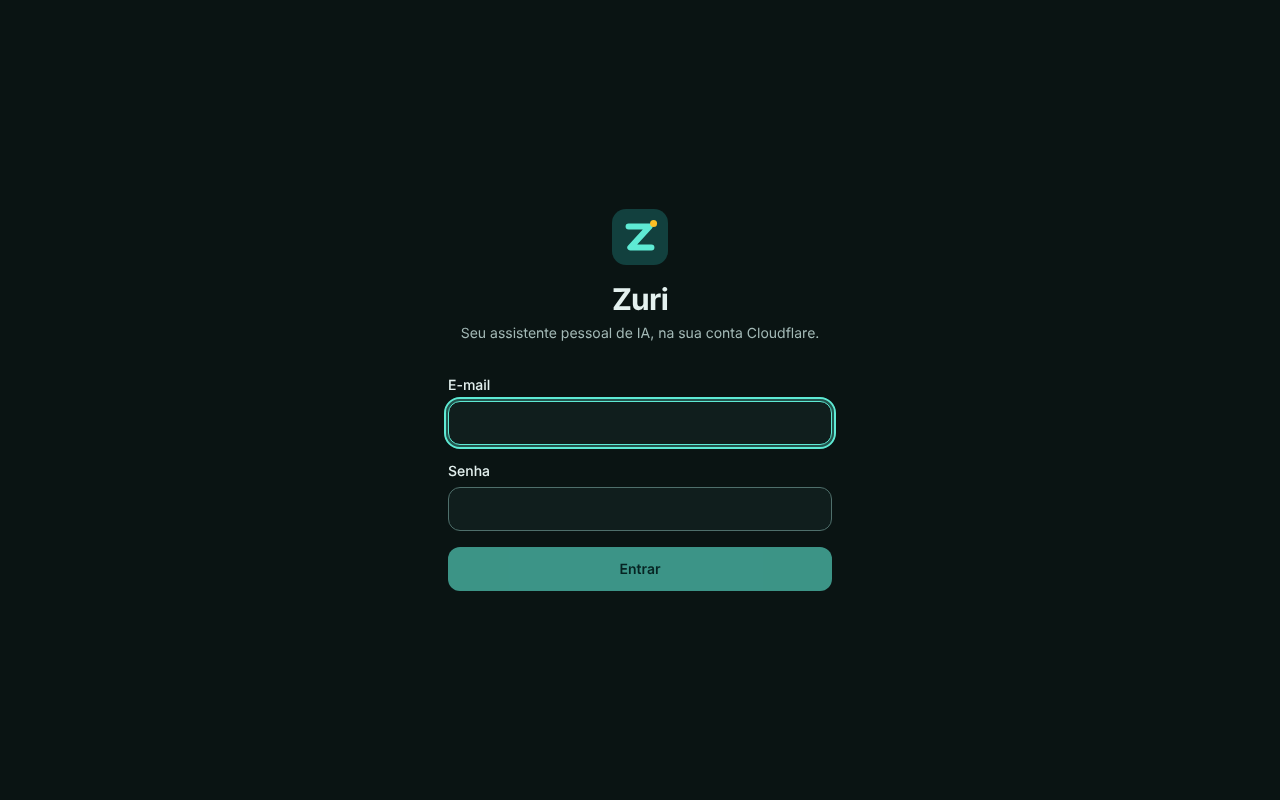
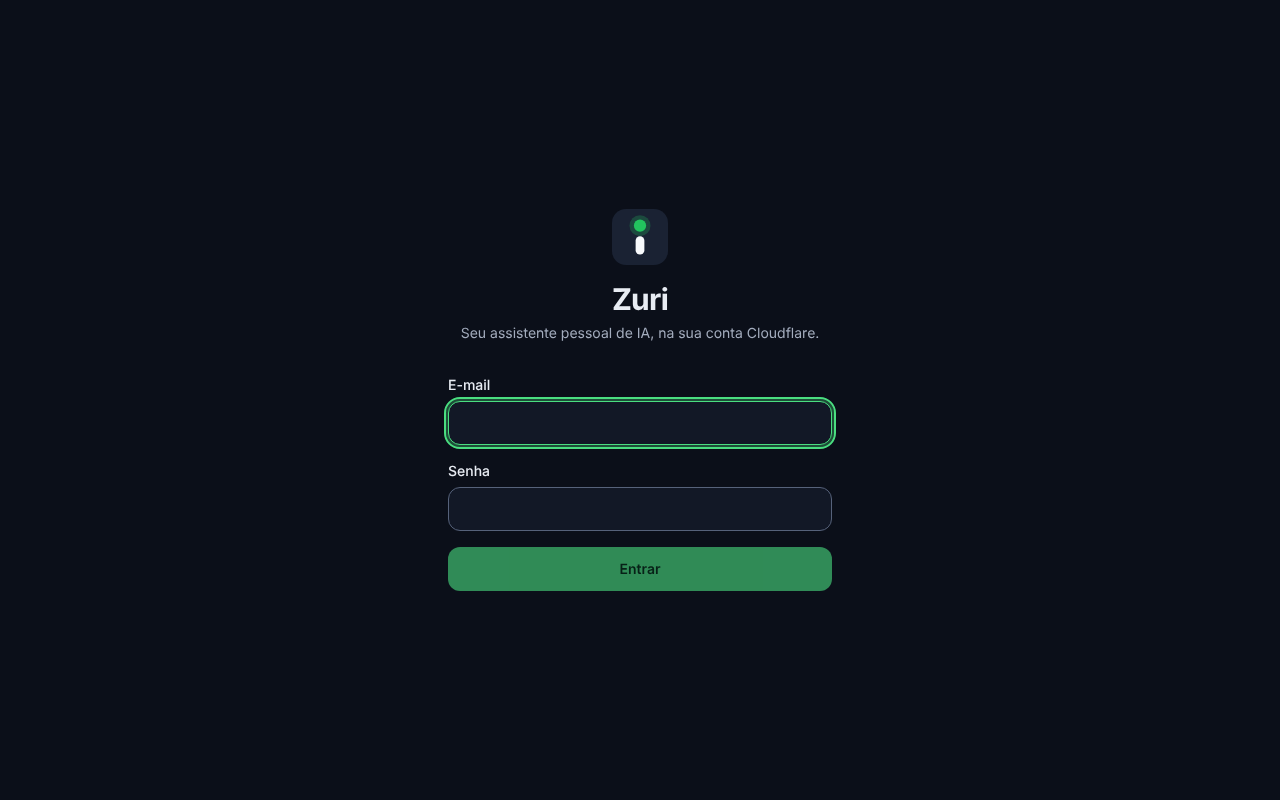
style: aplica a identidade visual "Sinal"
O logo vira um i cujo pingo é uma luz verde, que pulsa enquanto o Zuri
trabalha. Cores da interface, favicon, ícones, manifest e capturas trocados.
Escolha do Pablo registrada em decisoes.md.

Claude-Session: https://claude.ai/code/session_012XDDEh6Pz1nVR2LMDxcdBF

Changed region(s): [[0.3438, 0.6562, 0.6562, 0.75], [0.3438, 0.5, 0.6562, 0.5625], [0.4688, 0.25, 0.5312, 0.3438]]

diff --git a/apps/web/src/styles.css b/apps/web/src/styles.css
@@ -4,55 +4,57 @@
 @custom-variant dark (&:where(.dark, .dark *));
 
 /*
- * Zuri's palette ("Brisa"): calm teal with an amber spark. Every color the
- * interface uses comes from these tokens, so another identity is one block to
- * change. Text pairs keep WCAG AA contrast in both themes (4.5:1 or more).
+ * Zuri's palette ("Sinal"): ink neutrals with one green light, the dot of the
+ * logo's i. Green means "working" across the interface, so it stays the only
+ * accent. Every color the interface uses comes from these tokens. Text pairs
+ * keep WCAG AA contrast in both themes (4.5:1 or more).
  */
 @theme {
-  --color-bg: #f5f9f8;
+  --color-bg: #f6f7f9;
   --color-surface: #ffffff;
-  --color-raised: #eef4f3;
-  --color-fg: #0f1f1e;
-  --color-fg-muted: #4a5c5a;
-  --color-border: #d3dfdd;
-  --color-border-strong: #8fa5a2;
-  --color-accent: #0f766e;
-  --color-accent-hover: #115e59;
+  --color-raised: #eef0f4;
+  --color-fg: #0b0f19;
+  --color-fg-muted: #4b5563;
+  --color-border: #dde1e8;
+  --color-border-strong: #8b93a1;
+  --color-accent: #15803d;
+  --color-accent-hover: #166534;
   --color-accent-fg: #ffffff;
-  --color-accent-soft: #d5f5ef;
-  --color-accent-text: #0f665f;
+  --color-accent-soft: #dcfce7;
+  --color-accent-text: #166534;
   --color-danger: #b42318;
   --color-danger-soft: #fdecea;
   --color-success: #12703a;
   --color-success-soft: #e3f6ea;
   --color-warning: #8a4b00;
   --color-warning-soft: #fdf1dc;
-  --color-brand-tile: #0f3b3a;
-  --color-brand-mark: #5eead4;
-  --color-brand-spark: #fbbf24;
+  --color-brand-tile: #0b0f19;
+  --color-brand-mark: #f8fafc;
+  --color-brand-signal: #22c55e;
   --font-sans: system-ui, -apple-system, "Segoe UI", Roboto, "Helvetica Neue", Arial, sans-serif;
 }
 
 .dark {
-  --color-bg: #0a1413;
-  --color-surface: #101e1d;
-  --color-raised: #162826;
-  --color-fg: #e4f1ef;
-  --color-fg-muted: #a3b9b6;
-  --color-border: #24403d;
-  --color-border-strong: #4f6f6b;
-  --color-accent: #5eead4;
-  --color-accent-hover: #99f6e4;
-  --color-accent-fg: #042f2e;
-  --color-accent-soft: #123b37;
-  --color-accent-text: #7ff0dc;
+  --color-bg: #0b0f19;
+  --color-surface: #121826;
+  --color-raised: #1a2233;
+  --color-fg: #e8ecf3;
+  --color-fg-muted: #a3acbd;
+  --color-border: #263043;
+  --color-border-strong: #56627a;
+  --color-accent: #4ade80;
+  --color-accent-hover: #86efac;
+  --color-accent-fg: #052e16;
+  --color-accent-soft: #0f2e1c;
+  --color-accent-text: #6ee7a0;
   --color-danger: #ffb4ab;
   --color-danger-soft: #3b1715;
   --color-success: #86efac;
   --color-success-soft: #10301d;
   --color-warning: #fcd34d;
   --color-warning-soft: #33270a;
-  --color-brand-tile: #12403e;
+  /* A step lighter than the page, so the tile still shows on it. */
+  --color-brand-tile: #1a2233;
   color-scheme: dark;
 }
 

diff --git a/apps/web/src/components/Logo.tsx b/apps/web/src/components/Logo.tsx
@@ -1,15 +1,19 @@
 import { cn } from "./ui.tsx";
 
 /**
- * Zuri's mark ("Brisa"): a Z drawn in one stroke on a deep teal tile, with an
- * amber spark. The same drawing as public/favicon.svg and the app icons.
+ * Zuri's mark ("Sinal"): an i whose dot is a green light. The same drawing as
+ * public/favicon.svg and the app icons. With `working`, the light pulses: the
+ * mark doubles as the sign that Zuri is busy (motion-safe only).
  */
-export function Logo({ className }: { className?: string }) {
+export function Logo({ className, working = false }: { className?: string; working?: boolean }) {
   return (
     <svg viewBox="0 0 64 64" className={cn("h-8 w-8 shrink-0", className)} aria-hidden="true" focusable="false">
       <rect width="64" height="64" rx="16" className="fill-brand-tile" />
-      <path d="M19 20h24L21 44h24" fill="none" className="stroke-brand-mark" strokeWidth="7" strokeLinecap="round" strokeLinejoin="round" />
-      <circle cx="47.5" cy="16.5" r="4" className="fill-brand-spark" />
+      <g className={cn("fill-brand-signal", working && "motion-safe:animate-pulse")}>
+        <circle cx="32" cy="19" r="12" opacity="0.25" />
+        <circle cx="32" cy="19" r="7" />
+      </g>
+      <rect x="27" y="31" width="10" height="21" rx="5" className="fill-brand-mark" />
     </svg>
   );
 }

diff --git a/tests/e2e/states.spec.ts b/tests/e2e/states.spec.ts
@@ -85,12 +85,12 @@ test("the theme choice applies at once and stays after a reload", async ({ page 
   const theme = page.getByRole("group", { name: "Tema" });
   await theme.getByText("Escuro").click();
   await expect(page.locator("html")).toHaveClass(/dark/);
-  await expect(page.locator('meta[name="theme-color"]')).toHaveAttribute("content", "#0a1413");
+  await expect(page.locator('meta[name="theme-color"]')).toHaveAttribute("content", "#0b0f19");
   await page.reload();
   await expect(page.getByRole("heading", { level: 1, name: "Configurações" })).toBeVisible();
   await expect(page.locator("html")).toHaveClass(/dark/);
   await expect(theme.getByRole("radio", { name: "Escuro" })).toBeChecked();
   await theme.getByText("Claro").click();
   await expect(page.locator("html")).not.toHaveClass(/dark/);
-  await expect(page.locator('meta[name="theme-color"]')).toHaveAttribute("content", "#f5f9f8");
+  await expect(page.locator('meta[name="theme-color"]')).toHaveAttribute("content", "#f6f7f9");
 });

diff --git a/scripts/gerar-icones.ts b/scripts/gerar-icones.ts
@@ -13,8 +13,7 @@ const logo = readFileSync(join(PUBLIC, "favicon.svg"), "utf8");
 /** The logo inside a full-bleed tile, its mark within the maskable safe zone (the inner 80%). */
 const maskable = logo
   .replace('rx="16"', 'rx="0"')
-  .replace(/<path /, '<g transform="translate(32 32) scale(0.72) translate(-32 -32)"><path ')
-  .replace("</svg>", "</g></svg>");
+  .replace("<g>", '<g transform="translate(32 32) scale(0.72) translate(-32 -32)">');
 
 const ICONS: { file: string; size: number; svg: string }[] = [
   { file: "favicon-32.png", size: 32, svg: logo },

diff --git a/apps/web/src/lib/theme.ts b/apps/web/src/lib/theme.ts
@@ -29,7 +29,7 @@ export function applyTheme(pref: ThemePreference): void {
   const set = () => {
     const dark = resolve(pref) === "dark";
     document.documentElement.classList.toggle("dark", dark);
-    document.querySelector('meta[name="theme-color"]')?.setAttribute("content", dark ? "#0a1413" : "#f5f9f8");
+    document.querySelector('meta[name="theme-color"]')?.setAttribute("content", dark ? "#0b0f19" : "#f6f7f9");
   };
   set();
   if (media && listener) media.removeEventListener("change", listener);

diff --git a/apps/web/index.html b/apps/web/index.html
@@ -4,7 +4,7 @@
     <meta charset="utf-8" />
     <meta name="viewport" content="width=device-width, initial-scale=1, viewport-fit=cover" />
     <meta name="description" content="Zuri: seu assistente pessoal de IA, na sua conta Cloudflare." />
-    <meta name="theme-color" content="#f5f9f8" />
+    <meta name="theme-color" content="#f6f7f9" />
     <meta name="color-scheme" content="light dark" />
     <meta name="referrer" content="same-origin" />
     <title>Zuri</title>

diff --git a/apps/web/src/components/RequireSession.tsx b/apps/web/src/components/RequireSession.tsx
@@ -23,7 +23,7 @@ export function RequireSession({ children }: { children: ReactNode }) {
   if (loading) {
     return (
       <FullScreen>
-        <Logo className="h-12 w-12" />
+        <Logo className="h-12 w-12" working />
         <Spinner label={t("web.session.checking")} />
       </FullScreen>
     );

diff --git a/.claude/memoria/decisoes.md b/.claude/memoria/decisoes.md
@@ -23,6 +23,7 @@ Fatos e decisões já tomados pelo Pablo. O agente não pergunta de novo nada da
 | 30/10/2026 | Especificação auditada por auditor independente; as correções (reconhecimento cruzado de alertas de segurança, trava de leitura do bot, bloqueio com saída por código de recuperação, processamento no Durable Object, prévia montada pelo servidor, webhook registrado pelo Worker) já estão na especificação. |
 | 30/10/2026 | Modo contínuo: o agente mescla sozinho na `develop` quando CI, QA e auditoria passam e segue para a próxima etapa numa conversa nova, sem pausa por fase. Para só nos bloqueios (algo que o Pablo fornece, etapa 21, decisão de produto, custo, falha persistente, achado de segurança). `main`, release e deploy continuam com o Pablo. O ruleset da `develop` exige CI verde e não exige aprovação humana. |
 | 31/10/2026 | Skills externas instaladas e usadas automaticamente: `mattpocock/skills`, `nateherkai/scroll-craft`, `cloudflare/security-audit-skill` e `blader/humanizer`, fixadas por commit em `.claude/skills-externas/` e instaladas por `scripts/instalar-skills.sh` no início de cada sessão. Atualização só por PR, depois de ler o diff. Geração paga de imagens do scroll-craft (kie.ai) bloqueada sem OK. |
+| 31/10/2026 | Identidade visual "Sinal": um i cujo pingo é uma luz verde (`#22c55e`) sobre tinta (`#0b0f19`); o verde é o único destaque e significa "trabalhando". Escolhida entre 17 opções. |
 
 ## Padrões em vigor até o Pablo dizer outra coisa
 

diff --git a/docs/interface.md b/docs/interface.md
@@ -55,11 +55,16 @@ resposta de `/api/*` sai com `Cache-Control: no-store`, e o cliente pede com
 
 ## Identidade visual
 
-Opção "Brisa": Z em um traço só, verde-água (`#5eead4`) sobre um quadrado
-verde-azulado escuro (`#0f3b3a`), com uma faísca âmbar (`#fbbf24`). Todas as
-cores da interface são variáveis em `apps/web/src/styles.css`; trocar a
-identidade é trocar esse bloco, o `Logo.tsx`, o `public/favicon.svg` e gerar os
-ícones de novo com `node scripts/gerar-icones.ts`.
+Opção "Sinal", escolhida pelo Pablo: um "i" claro sobre um quadrado cor de
+tinta (`#0b0f19`), com o pingo do i como uma luz verde (`#22c55e`). O verde
+quer dizer "trabalhando" na interface toda, por isso é o único destaque. O
+`Logo` aceita `working`, que faz a luz pulsar (só com movimento permitido); a
+tela "Conferindo a sua sessão" já usa. O desenho passou no recorte redondo do
+avatar do Telegram, no favicon de 16 px e em uma cor só (ícone de notificação).
+
+Todas as cores da interface são variáveis em `apps/web/src/styles.css`; trocar
+a identidade é trocar esse bloco, o `Logo.tsx`, o `public/favicon.svg` e gerar
+os ícones de novo com `node scripts/gerar-icones.ts`.
 
 ## Acessibilidade
 

diff --git a/CHANGELOG.md b/CHANGELOG.md
@@ -47,7 +47,9 @@ o [SemVer](https://semver.org/lang/pt-BR/). Cada PR escreve a sua entrada em
   central de avisos (vazia até a etapa 11) e Configurações com as abas Conta,
   Segurança, IA, Avisos, Integrações e Dados. Tema claro, escuro ou como o
   sistema, layout para celular e computador, em pt-BR e en.
-- Identidade visual do Zuri (logo, favicon, ícones e cores).
+- Identidade visual do Zuri, "Sinal": logo de um i cujo pingo é uma luz
+  verde, que pulsa enquanto o Zuri trabalha; favicon, ícones e cores da
+  interface nos dois temas.
 - App instalável (PWA) no celular e no computador.
 - Na aba Conta: idioma, fuso horário, aparência e troca de senha. Na aba
   Segurança: ligar e desligar a verificação em duas etapas com QR code e
